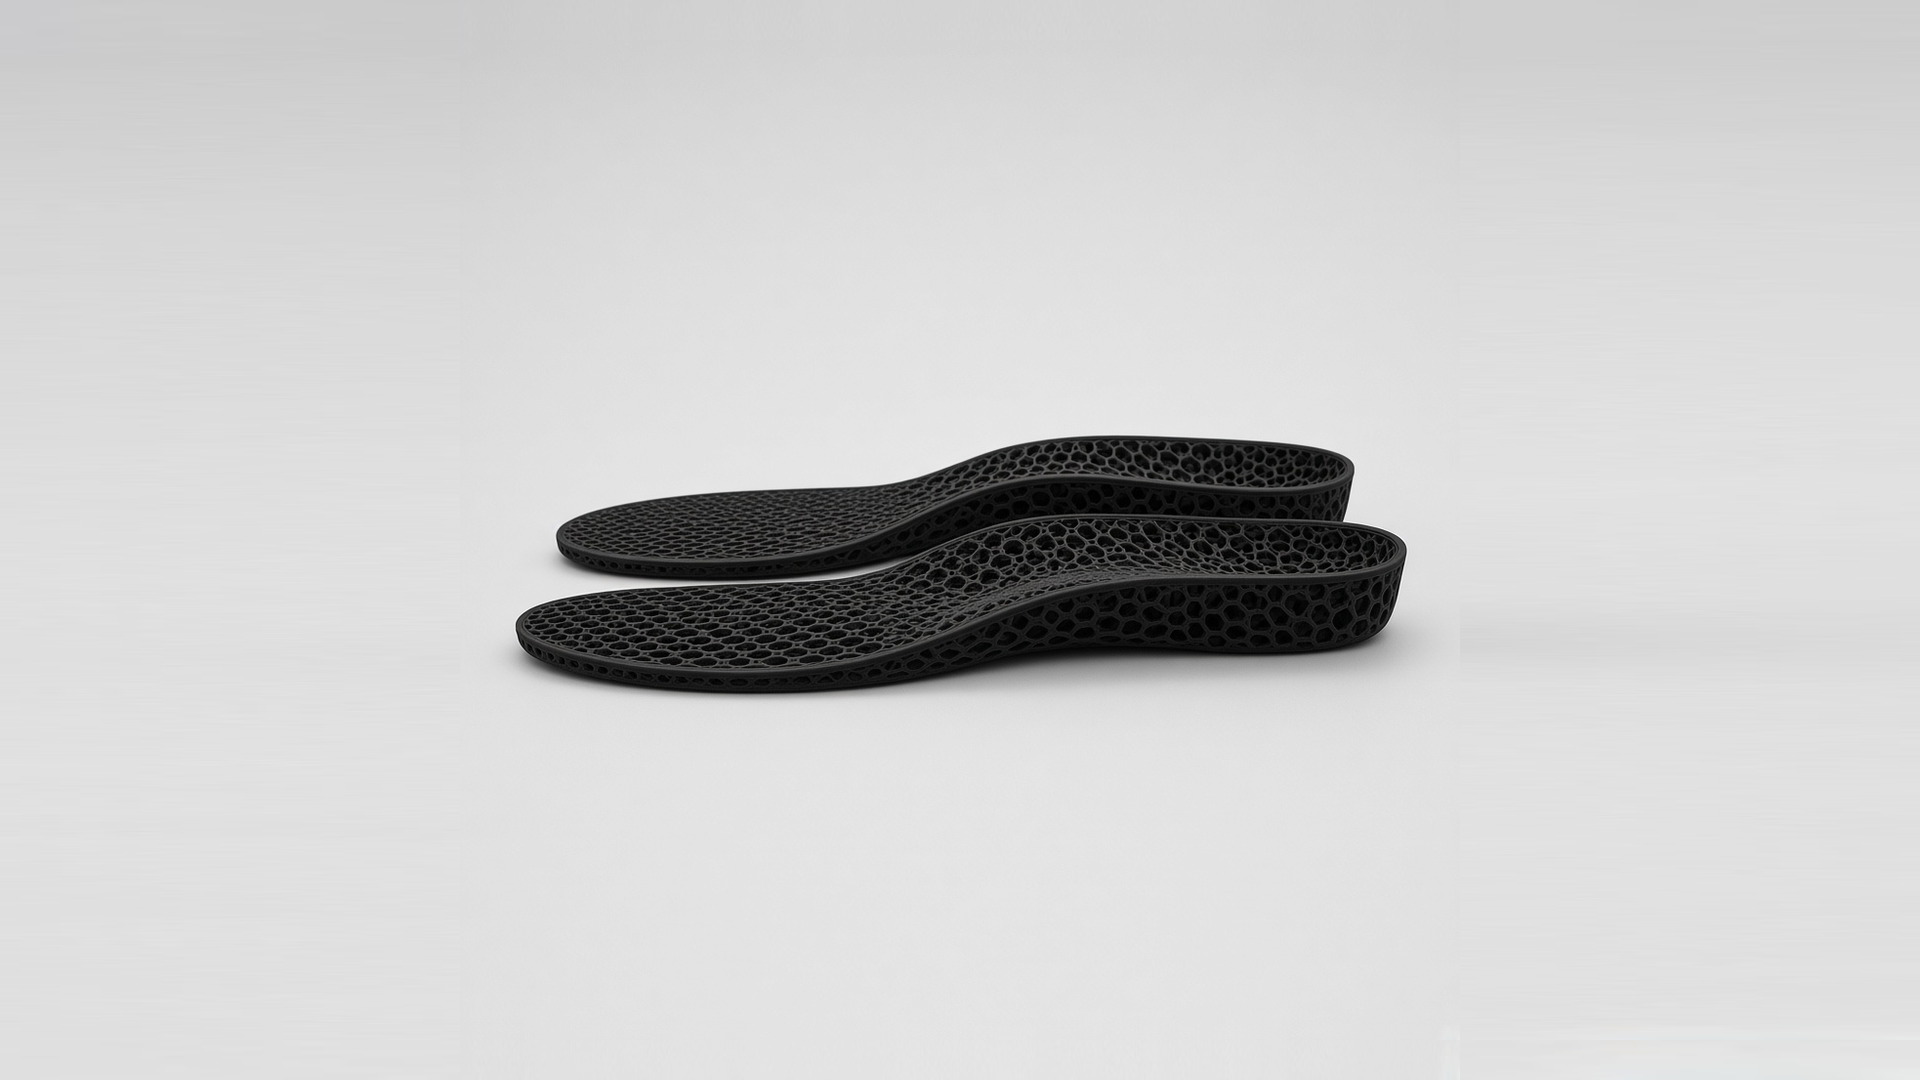
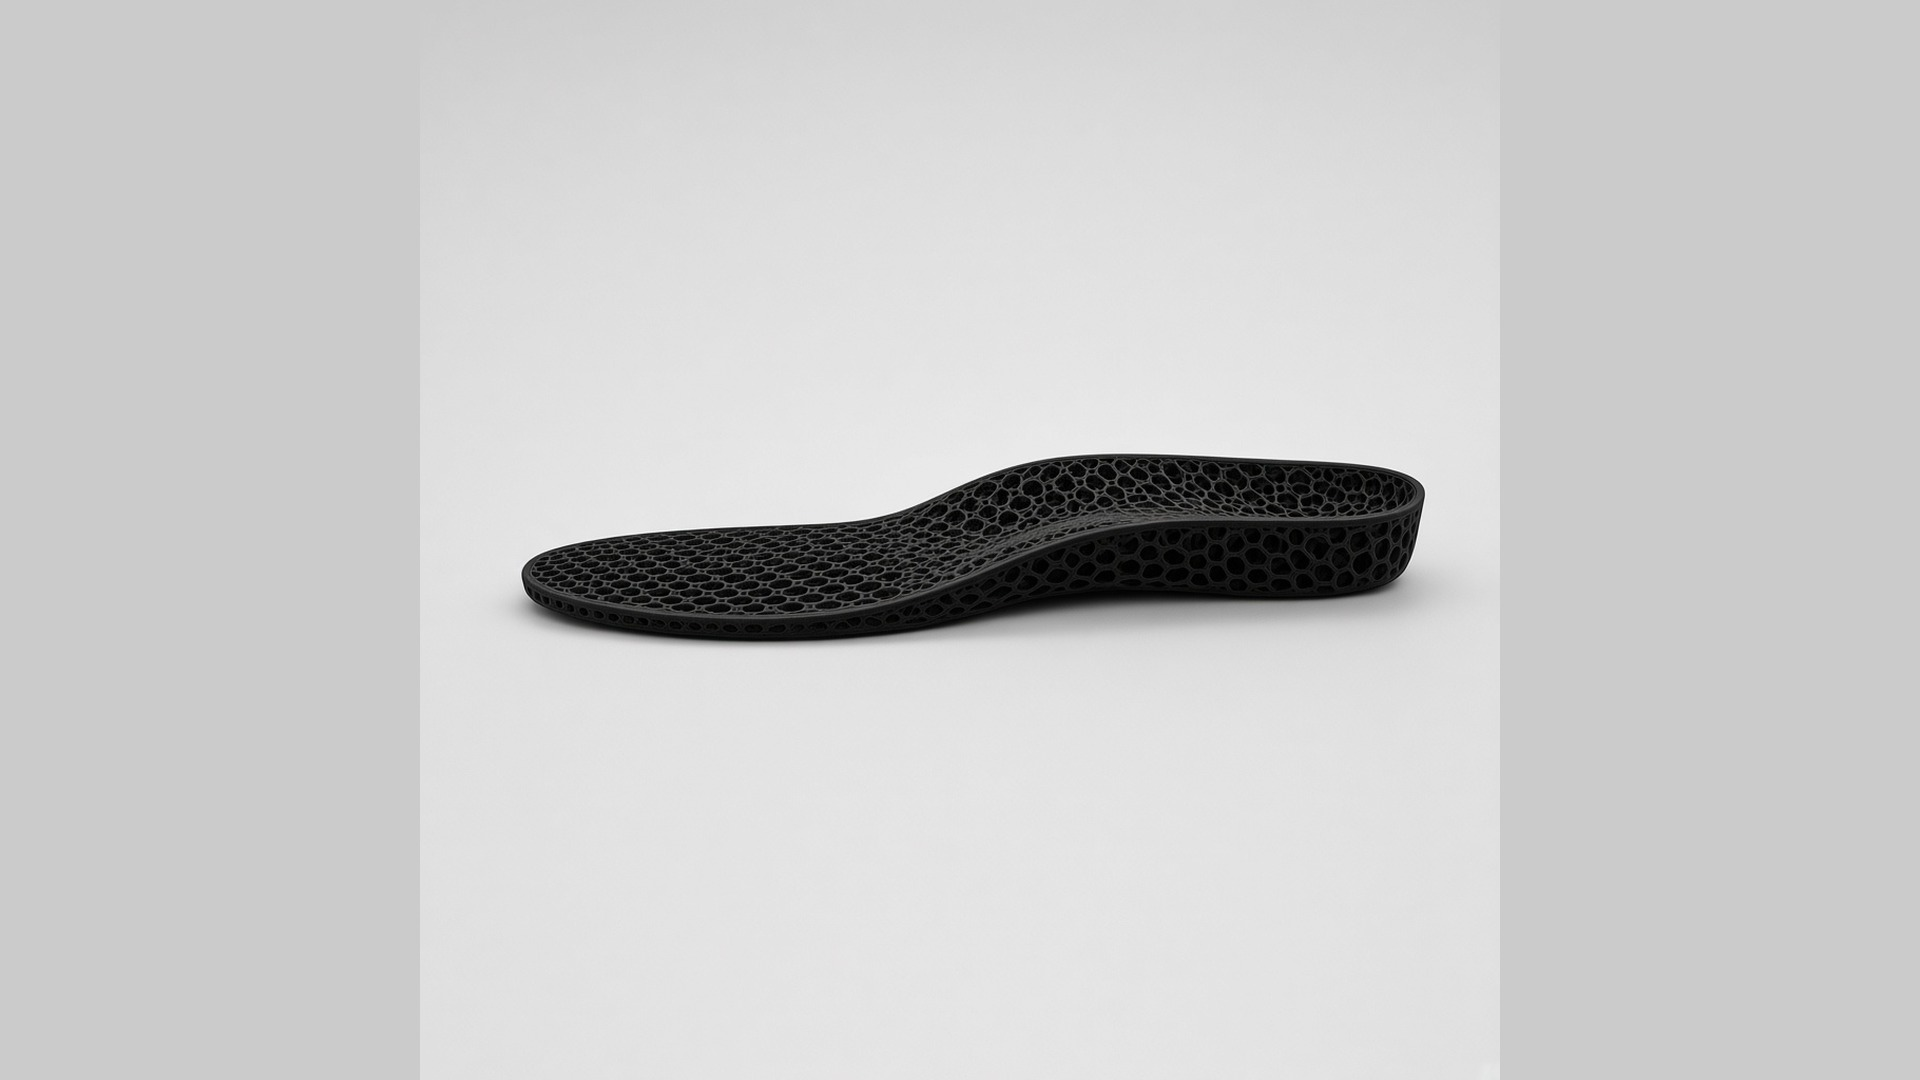
Show Lattice Insoles as one matching side-view listing
All Footwear now uses a single insole in side profile instead of a pair,
and the product photos share the same lattice design so left and right
no longer look like two different prints.

Changed region(s): [[0.25, 0.3972, 0.75, 0.6722], [0.7812, 0.9472, 1.0, 1.0]]

diff --git a/web/src/lib/footwear.test.ts b/web/src/lib/footwear.test.ts
@@ -35,7 +35,7 @@ test("lattice insoles use the same US sizes as the rest of the footwear lineup",
   assert.deepEqual([...LATTICE_INSOLES_SIZES], [...GATORS_SIZES]);
 });
 
-test("Lattice Insoles listing uses a zoomed-out side view; PDP keeps original then side", () => {
+test("Lattice Insoles listing uses a single side-view insole; PDP keeps pair then side", () => {
   const lattice = FOOTWEAR_CATALOG.find((item) => item.slug === LATTICE_INSOLES_SLUG);
   assert.equal(lattice?.images[0], LATTICE_INSOLES_PRODUCT_IMAGE_URL);
   assert.equal(lattice?.images[1], LATTICE_INSOLES_SIDE_IMAGE_URL);
